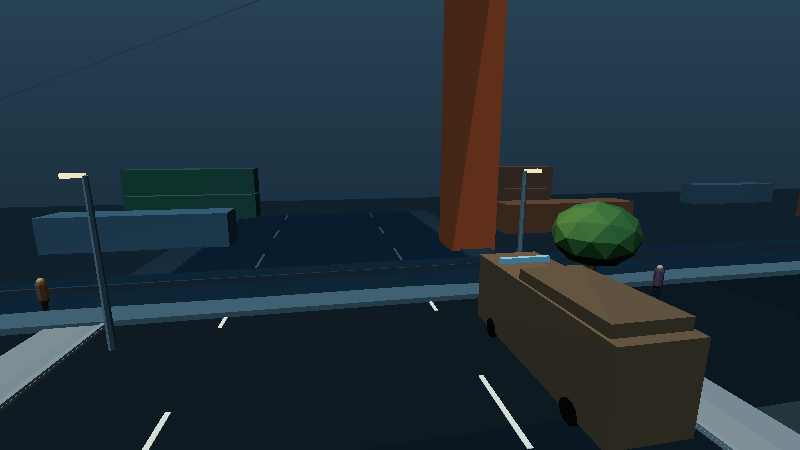
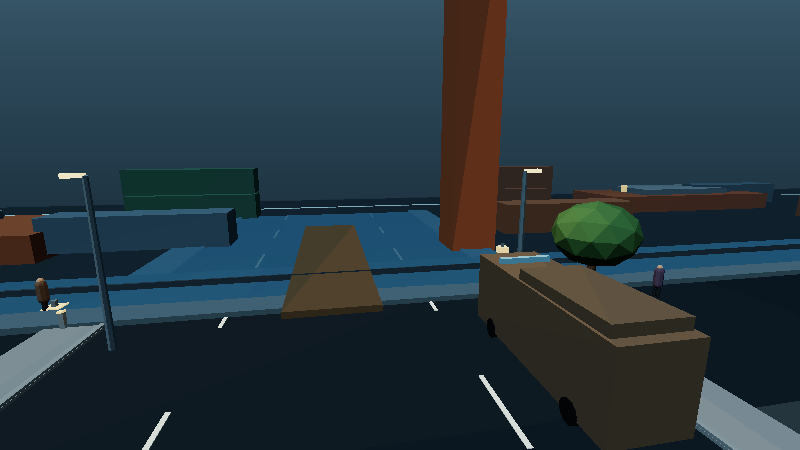
game_web: district detail pass, water legibility, camera-wheel zoom
- Street furniture: bins, hydrants, bollards, signposts, planters and
  utility boxes on the pavements, with matching collision.
- Harbour: moored barges, a pier, channel buoys.
- Water: lighter body tint, moonlight emissive and a foam line on every
  bank so the canal and harbour read as water at night rather than asphalt.
- Camera: mouse wheel adjusts the boom (world.setCameraDistance).
- Test tools: the CPU shadow map now covers the district (it was built for
  the lane's 60 m radius, leaving the whole harbour in shadow); survey
  cameras are also rejected inside tree canopies, and DEBUG_RAY=1 prints
  what the centre ray hits.
- Fixed in the shipping view too: when the district is loaded the lane's
  fake skyline blocks and its horizon haze card stood inside the real city
  (the haze fogged out the whole south of the map). LevelView now takes a
  district option and stands them down.
- docs/previews/city: 11 re-rendered district shots.

diff --git a/game_web/src/cityview.js b/game_web/src/cityview.js
@@ -301,11 +301,15 @@ export class CityView {
       geo.rotateX(-Math.PI / 2);
 
       const material = new THREE.MeshStandardMaterial({
-        color: srgb(w.kind === "harbour" ? 0x16262f : w.kind === "pond" ? 0x1b2a26 : 0x182527),
-        roughness: 0.12,
-        metalness: 0.55,
+        color: srgb(w.kind === "harbour" ? 0x24404e : w.kind === "pond" ? 0x25423a : 0x234252),
+        roughness: 0.1,
+        metalness: 0.62,
+        // A touch of self-lit body keeps the water separate from asphalt in a
+        // dark frame without pretending it is glowing.
+        emissive: srgb(w.kind === "harbour" ? 0x0d1a22 : 0x0c1b16),
+        emissiveIntensity: 1,
         transparent: true,
-        opacity: 0.92,
+        opacity: 0.94,
         envMapIntensity: 1.1,
       });
       // Drive the waves on the CPU: a vertex shader would be free, but the
@@ -322,6 +326,17 @@ export class CityView {
       mesh.receiveShadow = !!this.tier.shadows;
       this.root.add(mesh);
       this.waterMeshes.push({ mesh, spec: w, material });
+
+      // Foam: a narrow pale strip on each bank makes the shoreline legible at
+      // night, when the water and the asphalt are otherwise the same value.
+      const foam = new MergeBin();
+      const foamMat = mat(0x9fb4b8, { roughness: 0.8, emissive: 0x2a3a3e, emissiveIntensity: 0.6 });
+      const fy = w.surfaceY + 0.04;
+      foam.box(foamMat, (w.x1 + w.x2) / 2, fy, w.z1 + 0.5, width, 0.03, 1.0);
+      foam.box(foamMat, (w.x1 + w.x2) / 2, fy, w.z2 - 0.5, width, 0.03, 1.0);
+      foam.box(foamMat, w.x1 + 0.5, fy, (w.z1 + w.z2) / 2, 1.0, 0.03, depth);
+      foam.box(foamMat, w.x2 - 0.5, fy, (w.z1 + w.z2) / 2, 1.0, 0.03, depth);
+      foam.flush(this.root, `foam-${w.id}`);
 
       // The bed under the water, so looking down shows depth, not sky.
       const bed = new THREE.Mesh(
@@ -594,6 +609,39 @@ export class CityView {
       } else if (p.kind === "bench") {
         bin.box(M.timber, p.x, 0.44, p.z, 2.0, 0.12, 0.62);
         bin.box(M.metal, p.x, 0.22, p.z, 1.7, 0.44, 0.12);
+      } else if (p.kind === "bin") {
+        bin.box(M.metal, p.x, 0.42, p.z, 0.62, 0.84, 0.62);
+        bin.box(M.rust, p.x, 0.88, p.z, 0.7, 0.08, 0.7);
+      } else if (p.kind === "hydrant") {
+        bin.box(M.rust, p.x, 0.34, p.z, 0.26, 0.68, 0.26);
+        bin.box(M.rust, p.x, 0.72, p.z, 0.4, 0.12, 0.4);
+      } else if (p.kind === "bollard") {
+        bin.box(M.kerb, p.x, 0.42, p.z, 0.18, 0.84, 0.18);
+        bin.box(M.markAmber, p.x, 0.8, p.z, 0.2, 0.08, 0.2);
+      } else if (p.kind === "signpost") {
+        bin.box(M.metal, p.x, 1.1, p.z, 0.09, 2.2, 0.09);
+        bin.box(M.white, p.x, 2.05, p.z, 0.06, 0.5, 0.72);
+      } else if (p.kind === "crate") {
+        bin.box(M.timber, p.x, 0.3, p.z, 0.72, 0.6, 0.62);
+      } else if (p.kind === "planter") {
+        bin.box(M.kerb, p.x, 0.26, p.z, 1.2, 0.52, 1.2);
+        bin.box(M.leafDark, p.x, 0.66, p.z, 0.9, 0.5, 0.9);
+      } else if (p.kind === "utilityBox") {
+        bin.box(M.metal, p.x, 0.55, p.z, 1.0, 1.1, 0.7);
+        bin.box(M.rust, p.x, 1.12, p.z, 1.06, 0.08, 0.76);
+      } else if (p.kind === "barge") {
+        bin.box(M.rust, p.x, 0.7, p.z, p.w, 1.9, p.d);
+        bin.box(M.metal, p.x, 1.75, p.z, p.w * 0.55, 1.1, p.d * 0.7);
+        bin.box(M.markAmber, p.x - p.w * 0.3, 2.2, p.z, 0.5, 0.8, 0.5);
+      } else if (p.kind === "pier") {
+        bin.box(M.timber, p.x, 0.35, p.z, p.w, 0.3, p.len);
+        for (let z = p.z - p.len / 2; z <= p.z + p.len / 2; z += 3.2) {
+          bin.box(M.timber, p.x - p.w / 2 + 0.3, 0.1, z, 0.24, 0.7, 0.24);
+          bin.box(M.timber, p.x + p.w / 2 - 0.3, 0.1, z, 0.24, 0.7, 0.24);
+        }
+      } else if (p.kind === "buoy") {
+        bin.box(M.markAmber, p.x, -0.15, p.z, 0.7, 0.9, 0.7);
+        bin.box(M.metal, p.x, 0.32, p.z, 0.18, 0.5, 0.18);
       } else if (p.kind === "railing") {
         instancedBoxes.push({ x: p.x, y: 0.55, z: p.z, w: p.len, h: 1.1, d: 0.08 });
       }

diff --git a/game_web/src/city.js b/game_web/src/city.js
@@ -262,8 +262,8 @@ export function waterAt(city, px, pz) {
 }
 
 /** Road containing a point, or null. */
-export function roadAt(city, px, pz) {
-  for (const r of city.roads) if (insideRect(px, pz, r)) return r;
+export function roadAt(city, px, pz, pad = 0) {
+  for (const r of city.roads) if (insideRect(px, pz, r, pad)) return r;
   return null;
 }
 
@@ -577,6 +577,18 @@ export function buildCity(city = CITY, tier = { buildings: 84, treeCount: 200 })
     boxes.push(box(c.x - 2.2, c.z - 2.2, c.x + 2.2, c.z + 2.2, 0, 4, "craneBase"));
   }
 
+  // ------------------------------------------------------------ harbour kit 2
+  // A moored barge, a pier and channel buoys: the basin needs something in it.
+  props.push({ kind: "barge", x: -34, z: -140, w: 30, d: 9, yaw: 0.02 });
+  props.push({ kind: "barge", x: 44, z: -150, w: 22, d: 8, yaw: -0.03 });
+  props.push({ kind: "pier", x: 0, z: -132, len: 18, w: 4.2 });
+  for (let i = 0; i < 6; i++) {
+    props.push({ kind: "buoy", x: -60 + i * 24, z: -126 - (i % 2) * 6 });
+  }
+  for (const b of props.filter((p) => p.kind === "barge")) {
+    boxes.push(box(b.x - b.w / 2, b.z - b.d / 2, b.x + b.w / 2, b.z + b.d / 2, -0.3, 2.2, "barge"));
+  }
+
   // ------------------------------------------------------------- park kit
   for (const park of city.parks) {
     for (let i = 0; i < 5; i++) {
@@ -585,6 +597,40 @@ export function buildCity(city = CITY, tier = { buildings: 84, treeCount: 200 })
       if (waterAt(city, x, z)) continue;
       props.push({ kind: "bench", x, z, yaw: rand() * 0.8 - 0.4 });
       boxes.push(box(x - 1.1, z - 0.35, x + 1.1, z + 0.35, 0, 0.5, "bench"));
+    }
+  }
+
+  // ------------------------------------------------------- street furniture
+  // A city earns its "solid" feel from kerbside clutter. Everything here is
+  // generated along the pavement bands, clear of the road surface.
+  const furnitureRand = mulberry32(0x5f00d);
+  const lampClear = (x, z) => !lamps.some((l) => Math.abs(l.x - x) < 2.4 && Math.abs(l.z - z) < 2.4);
+  const roadClear = (x, z, pad = 0) => !roadAt(city, x, z, pad);
+  for (const road of city.roads) {
+    if (road.kind === "alley") continue;
+    const alongX = road.x2 - road.x1 >= road.z2 - road.z1;
+    const len = alongX ? road.x2 - road.x1 : road.z2 - road.z1;
+    const step = 11;
+    for (let d = 4; d < len - 4; d += step) {
+      const side = furnitureRand() < 0.5 ? -1 : 1;
+      // Put the prop just outside the road edge, on the pavement band.
+      const off = 1.1 + furnitureRand() * 1.2;
+      const x = alongX ? road.x1 + d : side < 0 ? road.x1 - off : road.x2 + off;
+      const z = alongX ? (side < 0 ? road.z1 - off : road.z2 + off) : road.z1 + d;
+      if (!insideRect(x, z, city.bounds, -3)) continue;
+      if (waterAt(city, x, z) || !lampClear(x, z) || !roadClear(x, z, 0.6)) continue;
+      const roll = furnitureRand();
+      const kind =
+        roll < 0.24 ? "bin" :
+        roll < 0.42 ? "hydrant" :
+        roll < 0.58 ? "bollard" :
+        roll < 0.72 ? "signpost" :
+        roll < 0.82 ? "crate" :
+        roll < 0.92 ? "planter" : "utilityBox";
+      props.push({ kind, x, z, yaw: furnitureRand() * 0.7 - 0.35, tone: furnitureRand() });
+      if (kind === "utilityBox") boxes.push(box(x - 0.5, z - 0.35, x + 0.5, z + 0.35, 0, 1.1, "utilityBox"));
+      if (kind === "planter") boxes.push(box(x - 0.6, z - 0.6, x + 0.6, z + 0.6, 0, 0.55, "planter"));
+      if (kind === "bin") boxes.push(box(x - 0.3, z - 0.3, x + 0.3, z + 0.3, 0, 0.9, "bin"));
     }
   }
 

diff --git a/game_web/src/scene.js b/game_web/src/scene.js
@@ -160,9 +160,12 @@ function stallSignTexture() {
 
 // --------------------------------------------------------------- builder
 export class LevelView {
-  constructor(scene, built) {
+  constructor(scene, built, options = {}) {
     this.scene = scene;
     this.built = built;
+    // Set when the loading lane is embedded in the generated district: the
+    // distant fake skyline must then stand down.
+    this.hasDistrict = Boolean(options.district);
     this.root = new THREE.Group();
     this.root.name = "level";
     scene.add(this.root);
@@ -222,8 +225,13 @@ export class LevelView {
     this.root.add(walk);
   }
 
-  // Distant blocks so the lane does not end in a void; kept low-poly.
+  /**
+   * Distant blocks so the lane does not end in a void; kept low-poly.
+   * With a district loaded these fakes sit inside the real city (and the haze
+   * card would fog the harbour), so they are skipped entirely.
+   */
   buildSkyline() {
+    if (this.hasDistrict) return;
     const r = this.buildingRng;
     const mat = new THREE.MeshStandardMaterial({ color: 0x0f171d, roughness: 1 });
     const far = new THREE.MeshStandardMaterial({ color: 0x0b1218, roughness: 1 });

diff --git a/game_web/src/main.js b/game_web/src/main.js
@@ -103,7 +103,7 @@ function setStatus(text, isError = false) {
 
 // --------------------------------------------------------------------- world
 const built = buildLevel();
-const view = new LevelView(scene, built).build();
+const view = new LevelView(scene, built, { district: true }).build();
 
 // The district wraps around the approved lane. It is study environment: a
 // procedural city that gives the beat somewhere to breathe.
@@ -283,6 +283,15 @@ canvas.addEventListener("pointermove", (e) => {
     );
   }
 });
+canvas.addEventListener(
+  "wheel",
+  (e) => {
+    e.preventDefault();
+    world.setCameraDistance(world.cameraDistance + Math.sign(e.deltaY) * 0.45);
+  },
+  { passive: false },
+);
+
 document.addEventListener("pointerlockchange", () => {
   pointerLocked = document.pointerLockElement === canvas;
 });

diff --git a/game_web/src/world.js b/game_web/src/world.js
@@ -219,6 +219,11 @@ export class World {
     Object.assign(this.input, patch);
   }
 
+  /** Camera boom length, clamped so it never sits inside the player. */
+  setCameraDistance(d) {
+    this.cameraDistance = clamp(d, 1.6, 8.5);
+  }
+
   look(dx, dy) {
     this.cameraYaw = wrapAngle(this.cameraYaw - dx);
     this.cameraPitch = clamp(this.cameraPitch + dy, -0.35, 0.95);
